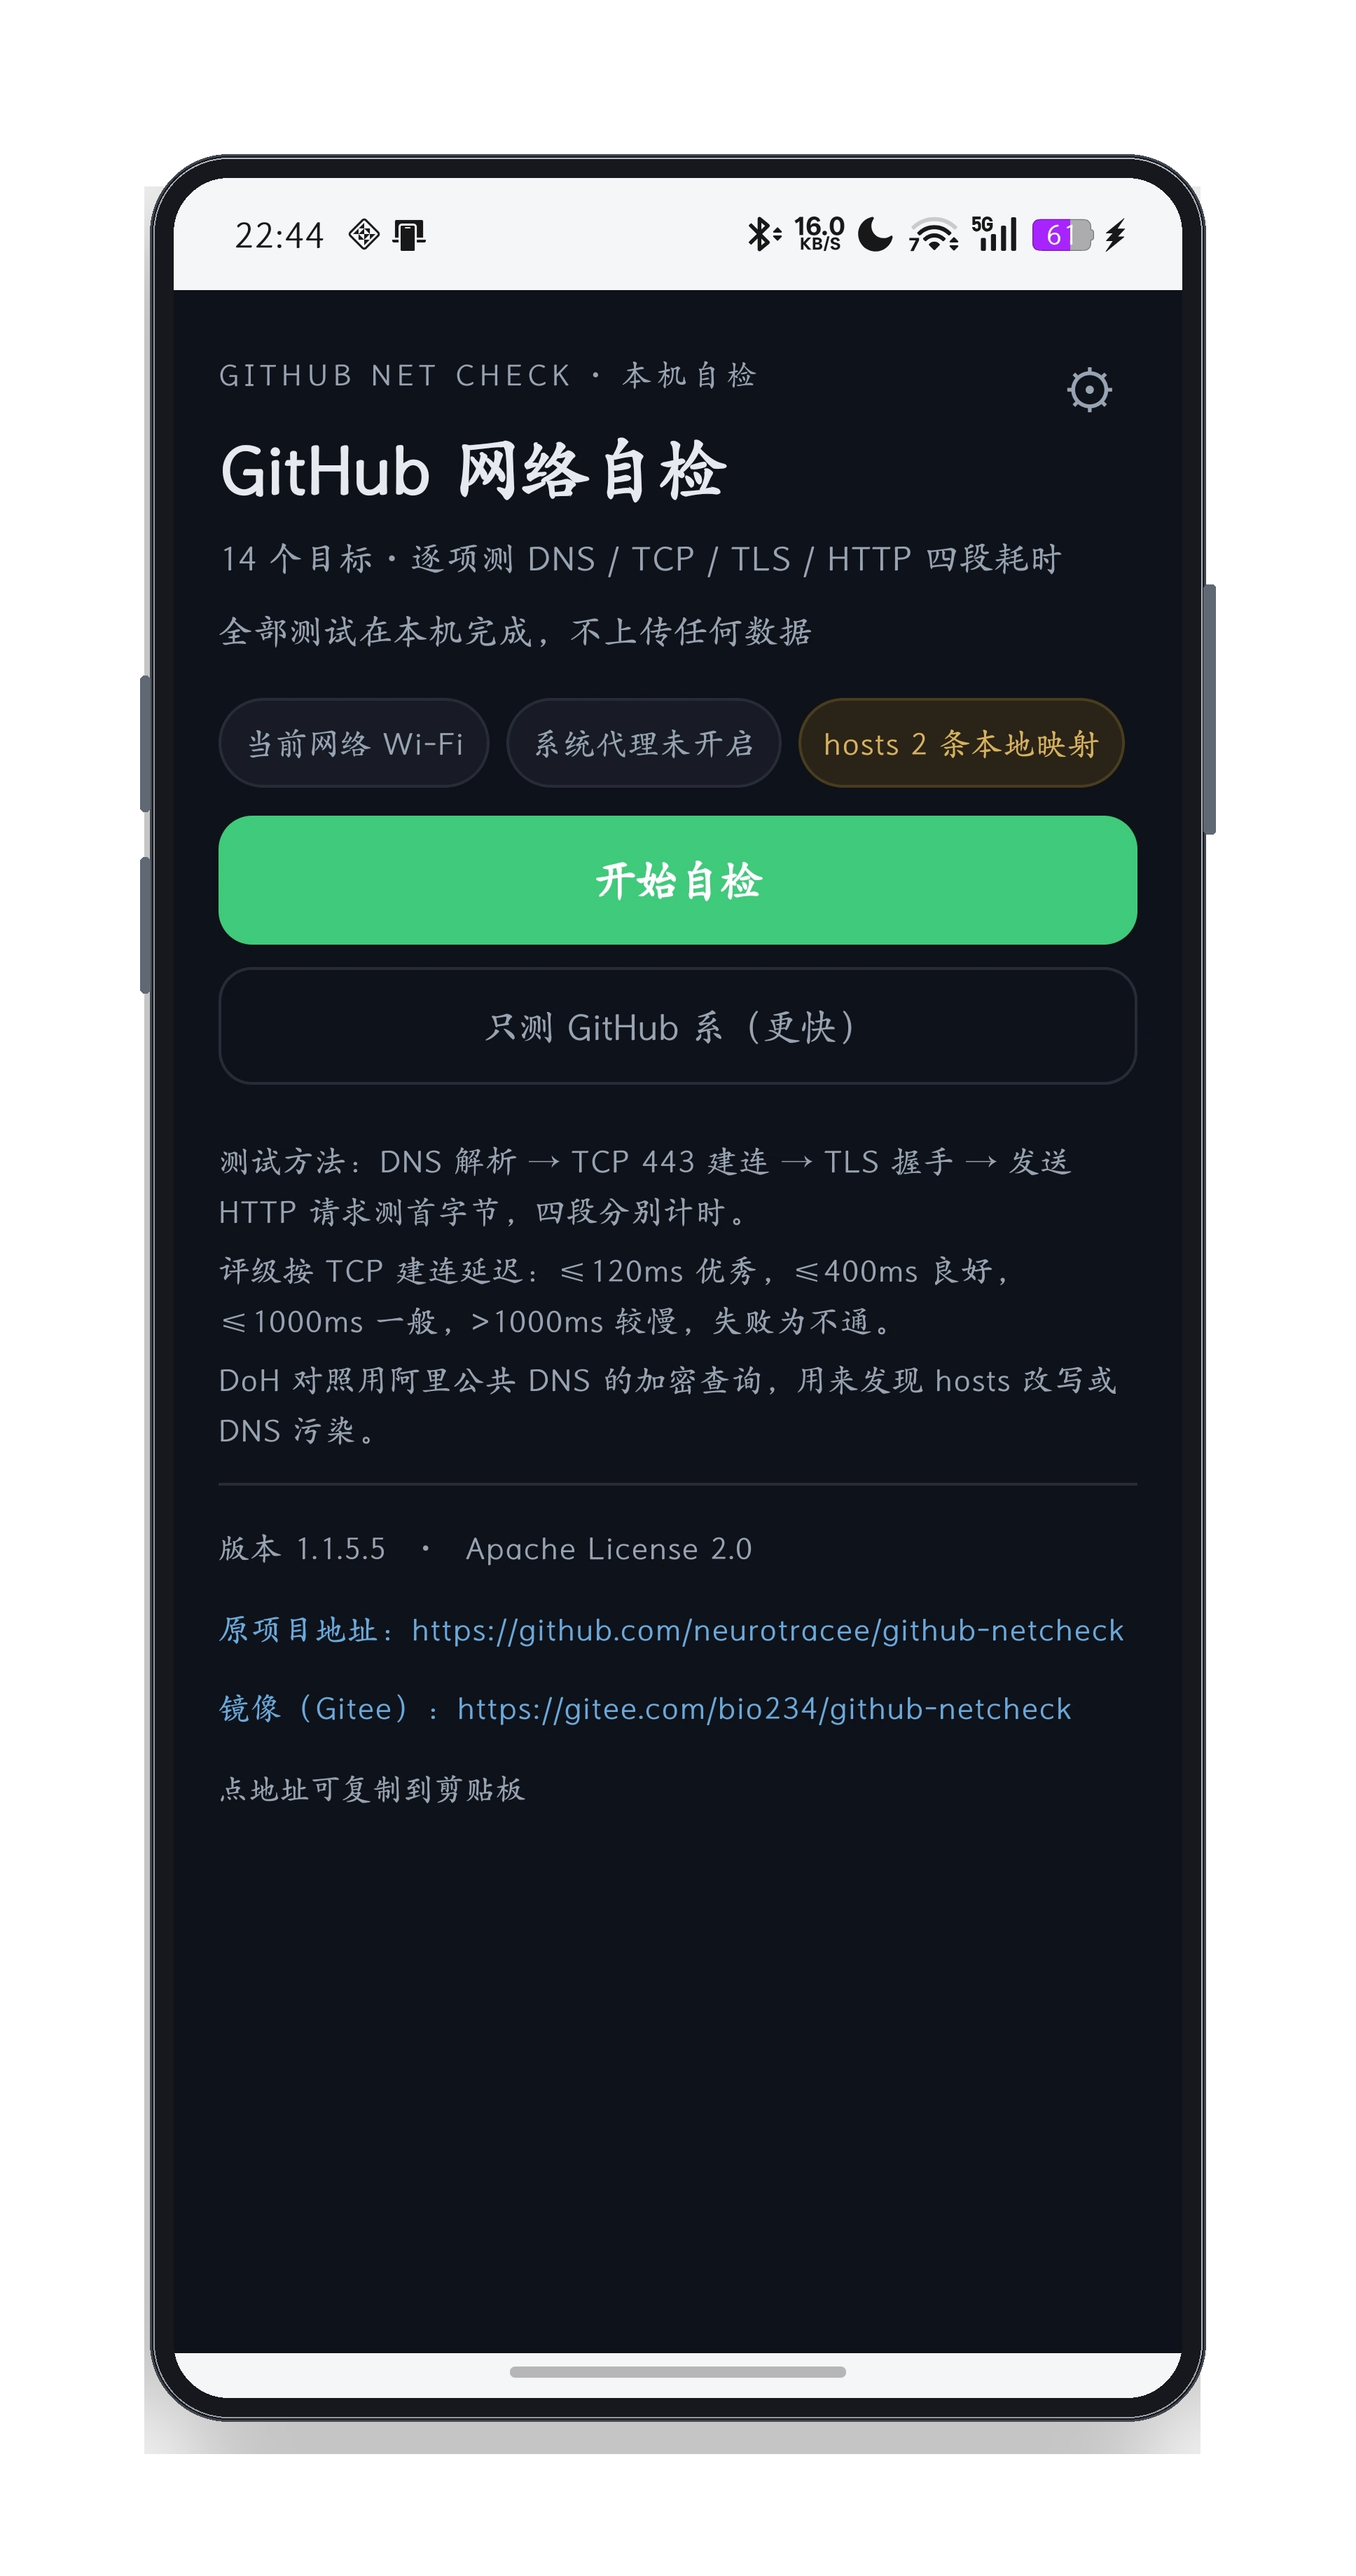
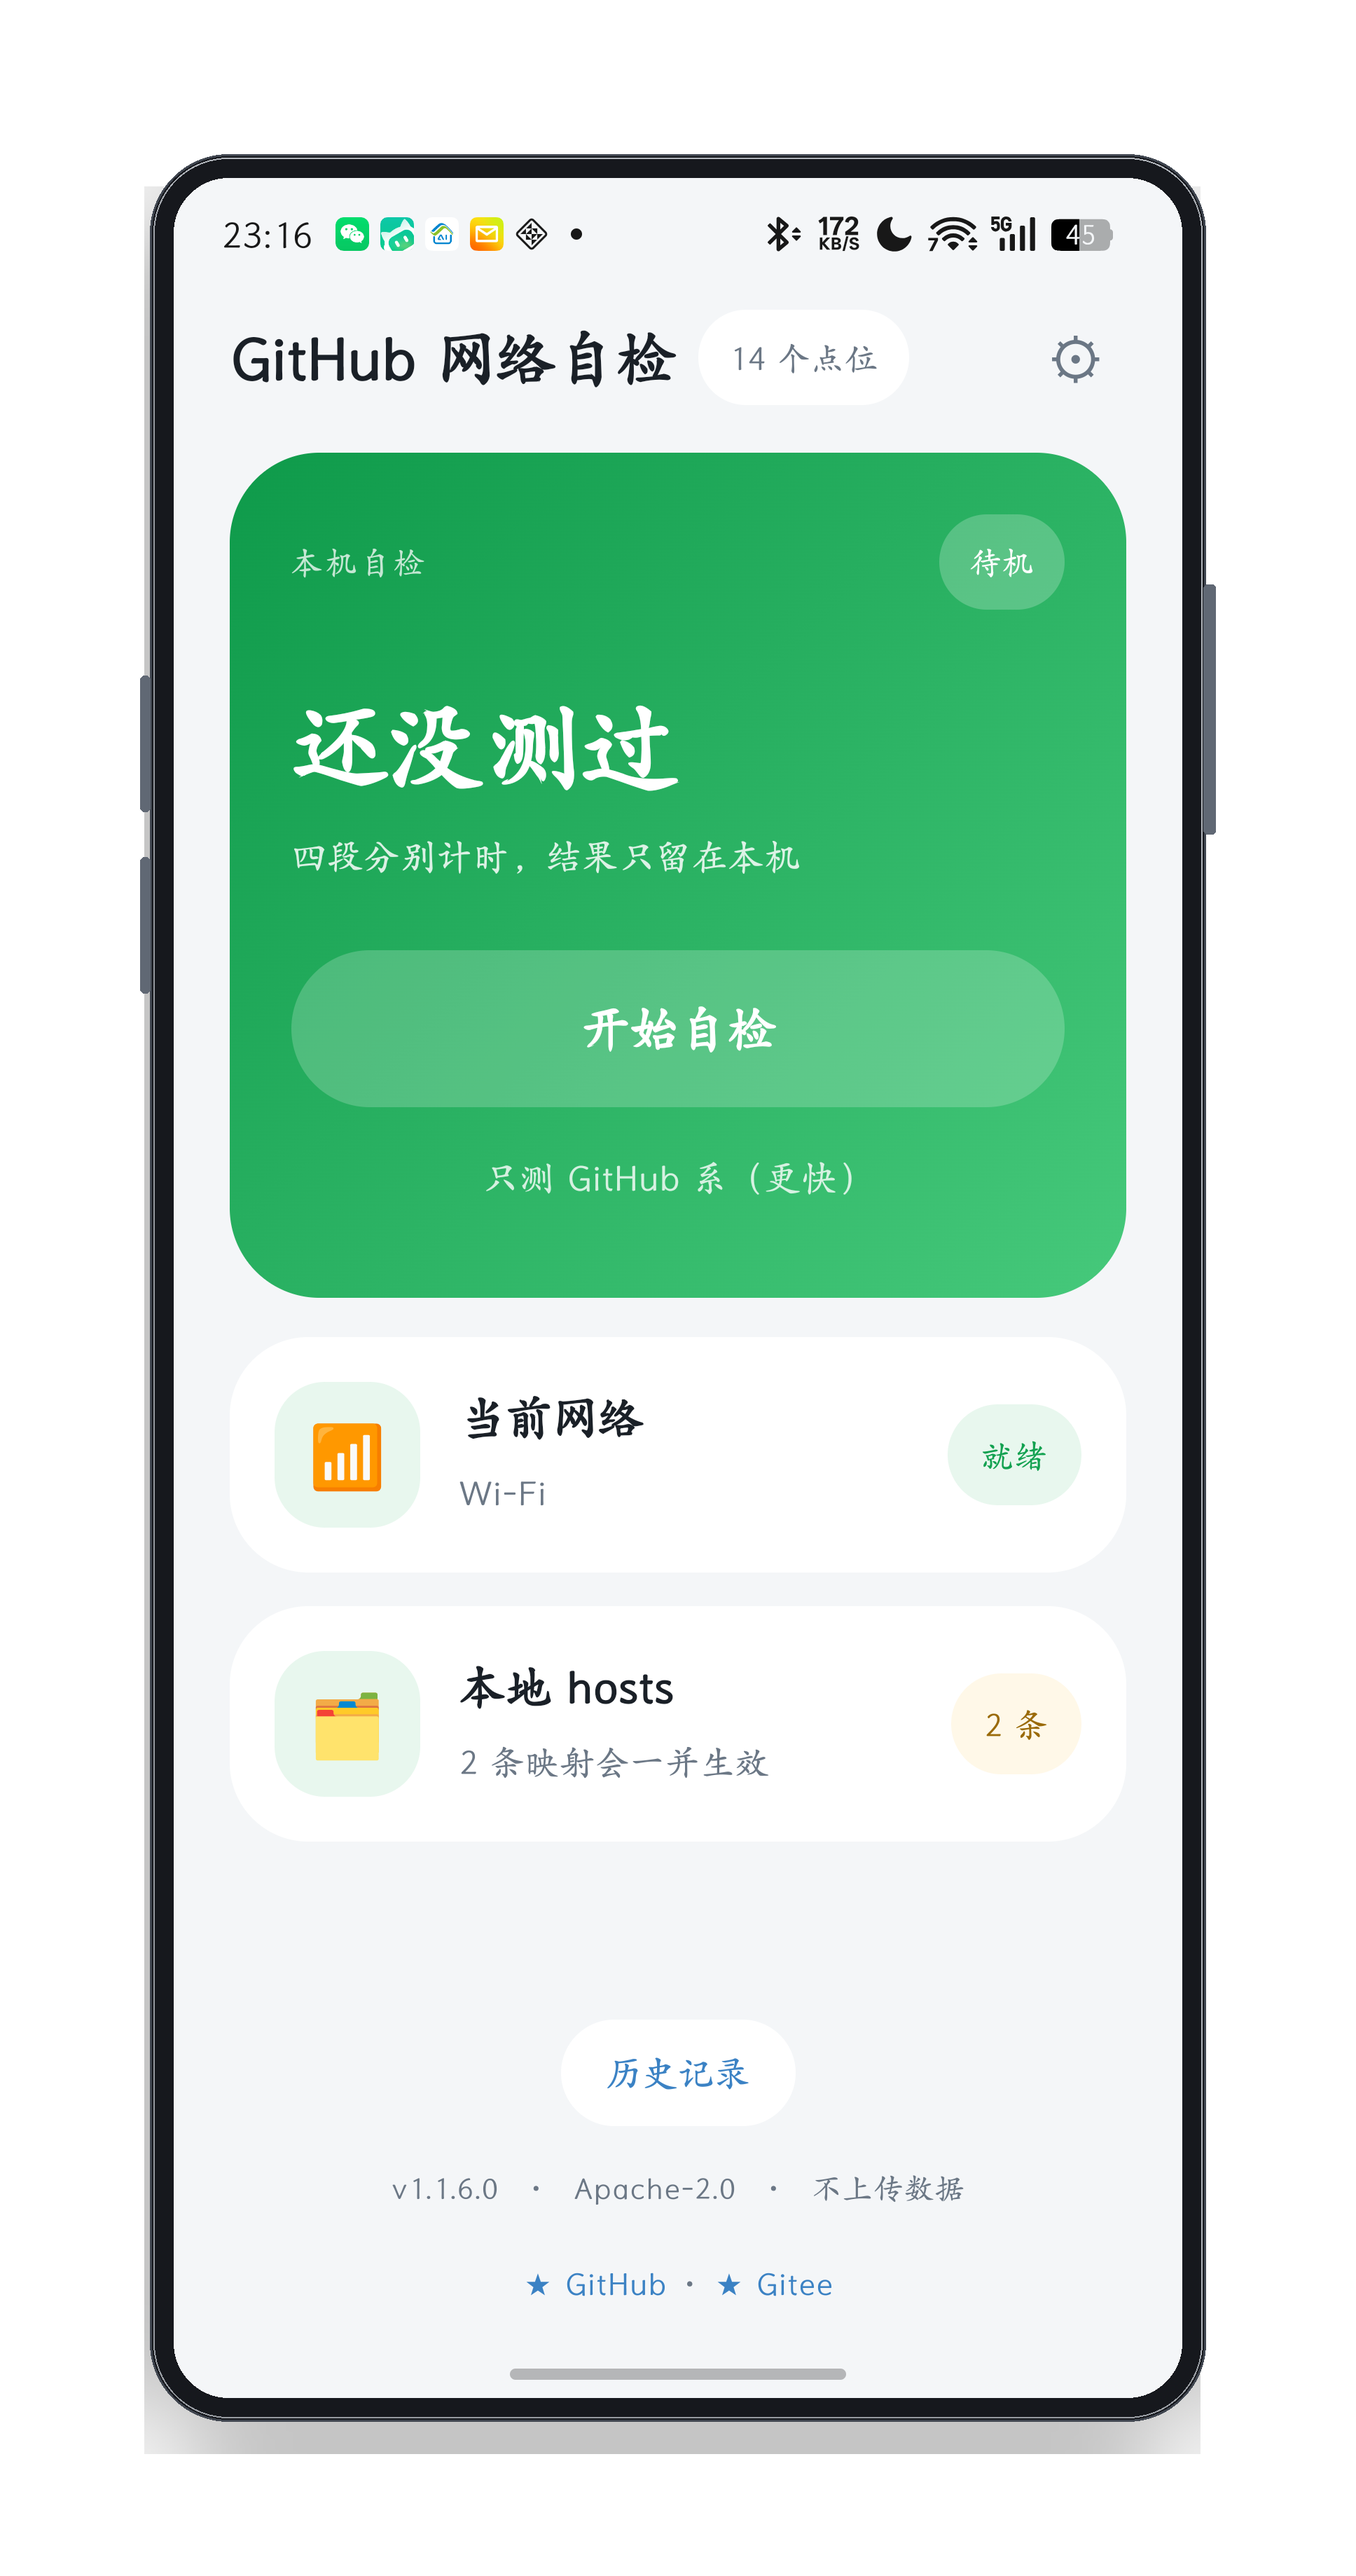
docs: 安卓截图换成 1.1.6.0 卡片版真机图（中文浅色 4 张 + 英文深色 4 张）
- 旧图停留在 1.1.5.5 的列表式首页，看不到卡片布局、异常分级与历史记录，已作废重截
- 中文组：主界面 / 结果 / 历史 / 历史详情，浅色
- 英文组：同四页，深色
- 两种语言各担一半截图任务（浅色已由中文覆盖，深色由英文覆盖），避免同一组界面重复出四张；两个语言与两种主题在应用内均可独立选择
- 历史图里的「中途停止 · 已测 5/14」是实测按了停止，不是摆拍
- hero 主视觉同步更新：右侧手机面板换为新界面，版本标签改为 v1.1.6.0；英文版 hero 改用英文深色界面
- 设置页与关于页暂沿用旧图（功能未变，但关于页缺少新增的测试方法段落、版本号仍是 1.1.5.5），待后续补拍

diff --git a/docs/tools/hero-en.html b/docs/tools/hero-en.html
@@ -78,20 +78,16 @@
     padding: 3px 9px; margin-right: 10px; box-shadow: 0 1px 2px rgba(15,23,42,.05);
   }
 
-  /* status matrix card */
-  .matrix {
-    position: absolute; right: 562px; top: 322px; width: 540px;
-    background: #FFFFFF; border-radius: 18px; padding: 26px 28px 22px;
-    border: 1px solid rgba(15,23,42,.09);
-    box-shadow: 0 26px 56px rgba(15,23,42,.14), 0 2px 6px rgba(15,23,42,.06);
+  .shot-win {
+    position: absolute; right: 208px; top: 250px; width: 1010px;
+    border-radius: 16px; overflow: hidden;
+    box-shadow: 0 34px 74px rgba(15,23,42,.22), 0 0 0 1px rgba(15,23,42,.09),
+                0 2px 6px rgba(15,23,42,.08);
   }
-  .m-head { font-size: 21px; color: #33465B; font-weight: 600; margin-bottom: 18px; }
-  .m-grid { display: grid; grid-template-columns: repeat(7, 1fr); gap: 9px; }
-  .cell { height: 46px; border-radius: 8px; }
-  .m-foot { margin-top: 18px; font-size: 16px; color: #8A99AB; letter-spacing: .04em; }
+  .shot-win img { width: 100%; display: block; }
 
   .shot-phone {
-    position: absolute; right: 156px; top: 268px; width: 366px;
+    position: absolute; right: 146px; top: 296px; width: 372px;
     filter: drop-shadow(0 22px 34px rgba(15,23,42,.30)) drop-shadow(0 2px 5px rgba(15,23,42,.12));
   }
   .shot-phone img { width: 100%; display: block; }
@@ -168,32 +164,15 @@
     <div><kbd>mirror</kbd><b>gitee.com/bio234/github-netcheck</b></div>
   </div>
 
-  <div class="matrix">
-    <div class="m-head">14 targets · 4 stages each</div>
-    <div class="m-grid">
-      <div class="cell" style="background:#10B981"></div>
-      <div class="cell" style="background:#10B981"></div>
-      <div class="cell" style="background:#34D399"></div>
-      <div class="cell" style="background:#10B981"></div>
-      <div class="cell" style="background:#7CC163"></div>
-      <div class="cell" style="background:#34D399"></div>
-      <div class="cell" style="background:#10B981"></div>
-      <div class="cell" style="background:#D6B25E"></div>
-      <div class="cell" style="background:#10B981"></div>
-      <div class="cell" style="background:#A5CE6C"></div>
-      <div class="cell" style="background:#10B981"></div>
-      <div class="cell" style="background:#C1664F"></div>
-      <div class="cell" style="background:#D6B25E"></div>
-      <div class="cell" style="background:#10B981"></div>
-    </div>
-    <div class="m-foot">DNS → TCP → TLS → HTTP</div>
+  <div class="shot-win">
+    <img src="../img/ui-windows-menu-device.png" alt="">
   </div>
 
   <div class="shot-phone">
-    <img src="../img/ui-android-main-en-light-device.png" alt="">
+    <img src="../img/ui-android-main-en-dark-device.png" alt="">
   </div>
 
-  <div class="pill-ver">netcheck <em>v1.1.5.6</em></div>
+  <div class="pill-ver">netcheck <em>v1.1.6.0</em></div>
 
   <div class="credit">
     <div class="l1">Creative work only — the actual product takes precedence. This image is AI-generated.</div>

diff --git a/docs/tools/hero.html b/docs/tools/hero.html
@@ -171,14 +171,14 @@
   </div>
 
   <div class="shot-win">
-    <img src="../img/ui-windows-console-device.png" alt="">
+    <img src="../img/ui-windows-menu-device.png" alt="">
   </div>
 
   <div class="shot-phone">
     <img src="../img/ui-android-main-device.png" alt="">
   </div>
 
-  <div class="pill-ver">netcheck <em>v1.1.5.6</em></div>
+  <div class="pill-ver">netcheck <em>v1.1.6.0</em></div>
 
   <div class="credit">
     <div class="l1">仅供创意，具体以实际为准；本图为 AI 生成</div>

diff --git a/README.md b/README.md
@@ -58,12 +58,17 @@ Windows 端是一段 PowerShell 脚本，双击就跑，不安装任何东西；
 </p>
 
 <h3 align="center">安卓：跑完一次，结论一眼看完</h3>
-<p align="center">主界面 · 设置 · 关于。14 个点位逐条给出 DNS / TCP / TLS / HTTP 四段耗时，点一条展开细节。</p>
+<p align="center">主界面 · 结果 · 历史 · 历史详情。14 个点位逐条给出 DNS / TCP / TLS / HTTP 四段耗时，异常默认置顶，历史里能回看每一次。</p>
 
 <p align="center">
-  <img src="docs/img/ui-android-main-device.png" width="252" alt="安卓主界面：跑完一次的结果">
-  <img src="docs/img/ui-android-settings-device.png" width="252" alt="安卓设置页">
-  <img src="docs/img/ui-android-about-device.png" width="252" alt="安卓关于页">
+  <img src="docs/img/ui-android-main-device.png" width="196" alt="安卓主界面：中文浅色，待机状态，卡片式布局">
+  <img src="docs/img/ui-android-result-device.png" width="196" alt="安卓结果页：中文浅色，默认只列异常，可分严重 / 中等 / 轻微">
+  <img src="docs/img/ui-android-history-device.png" width="196" alt="安卓历史记录：中文浅色，保留最近 100 次，中途停止也会留档">
+  <img src="docs/img/ui-android-history-detail-device.png" width="196" alt="安卓历史详情：中文浅色，逐点位四段耗时">
+</p>
+<p align="center">
+  <sub>↑ 这四张都是中文浅色。深色版统一放在本节末尾的英文段——纯粹是两种语言各担一半截图任务，同一组界面不用重复出四张，不代表哪种语言只配哪种主题；两个语言、两种主题在应用里对所有人都是同样可选的。<br>
+  图中那两条「中途停止 · 已测 5/14」是截图时真的按了停止，不是摆拍。</sub>
 </p>
 
 <br>
@@ -123,15 +128,19 @@ Windows 端是一段 PowerShell 脚本，双击就跑，不安装任何东西；
 </p>
 
 <p align="center">
-  <b>Android</b> — one run, all verdicts at a glance. 14 endpoints, each reported with DNS / TCP / TLS / HTTP timings; tap a row for details.
+  <b>Android</b> — one run, all verdicts at a glance. 14 endpoints, each reported with DNS / TCP / TLS / HTTP timings. Issues come first; the run can be filtered by severity (severe / moderate / mild) with a tap or a horizontal swipe, and every run is kept in local history.
 </p>
 <p align="center">
-  <img src="docs/img/ui-android-main-en-dark-device.png" width="230" alt="Android main screen (English)">
-  <img src="docs/img/ui-android-settings-en-dark-device.png" width="230" alt="Android settings (English)">
-  <img src="docs/img/ui-android-about-en-dark-device.png" width="230" alt="Android about (English)">
+  <img src="docs/img/ui-android-main-en-dark-device.png" width="196" alt="Android main screen (English, dark)">
+  <img src="docs/img/ui-android-result-en-dark-device.png" width="196" alt="Android result screen (English, dark), issues listed by severity">
+  <img src="docs/img/ui-android-history-en-dark-device.png" width="196" alt="Android history list (English, dark), 100 most recent runs, interrupted runs included">
+  <img src="docs/img/ui-android-history-detail-en-dark-device.png" width="196" alt="Android history detail (English, dark), four-stage timings per endpoint">
 </p>
 <p align="center">
-  <sub>↑ English UI: main · settings · about, all shot in the dark theme (v1.1.5.5). Two leftovers visible here — the <code>Network 移动数据</code> pill and “未设置（每次走分享面板）” — are fixed in v1.1.5.6; shots to be retaken.</sub>
+  <sub>
+  ↑ The four English shots above are the <b>dark theme</b> set. This is only a division of labour between the two languages: the Chinese set above already shows light mode, so the dark-mode set is demonstrated in English instead of repeating the same four screens twice. It is not a statement about which language or which audience deserves which theme — the app ships both themes and both languages to everyone, chosen independently in <code>Settings → Language</code> and <code>Settings → Appearance</code>.<br>
+  Endpoint names stay in Chinese in these shots on purpose: switching the app language only changes the UI chrome, not the endpoint descriptions (the Settings screen says so).
+  </sub>
 </p>
 
 <p align="center">
